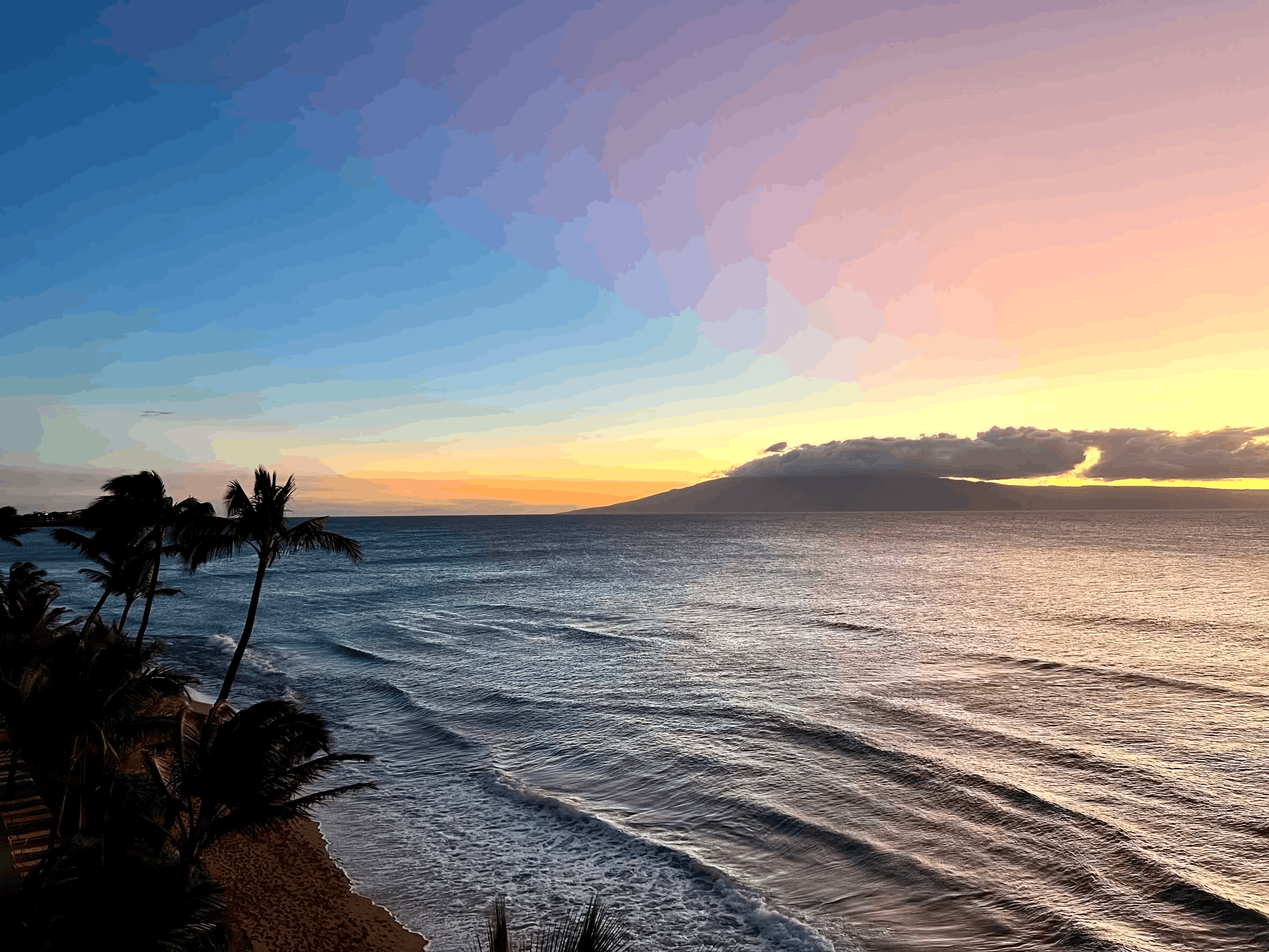
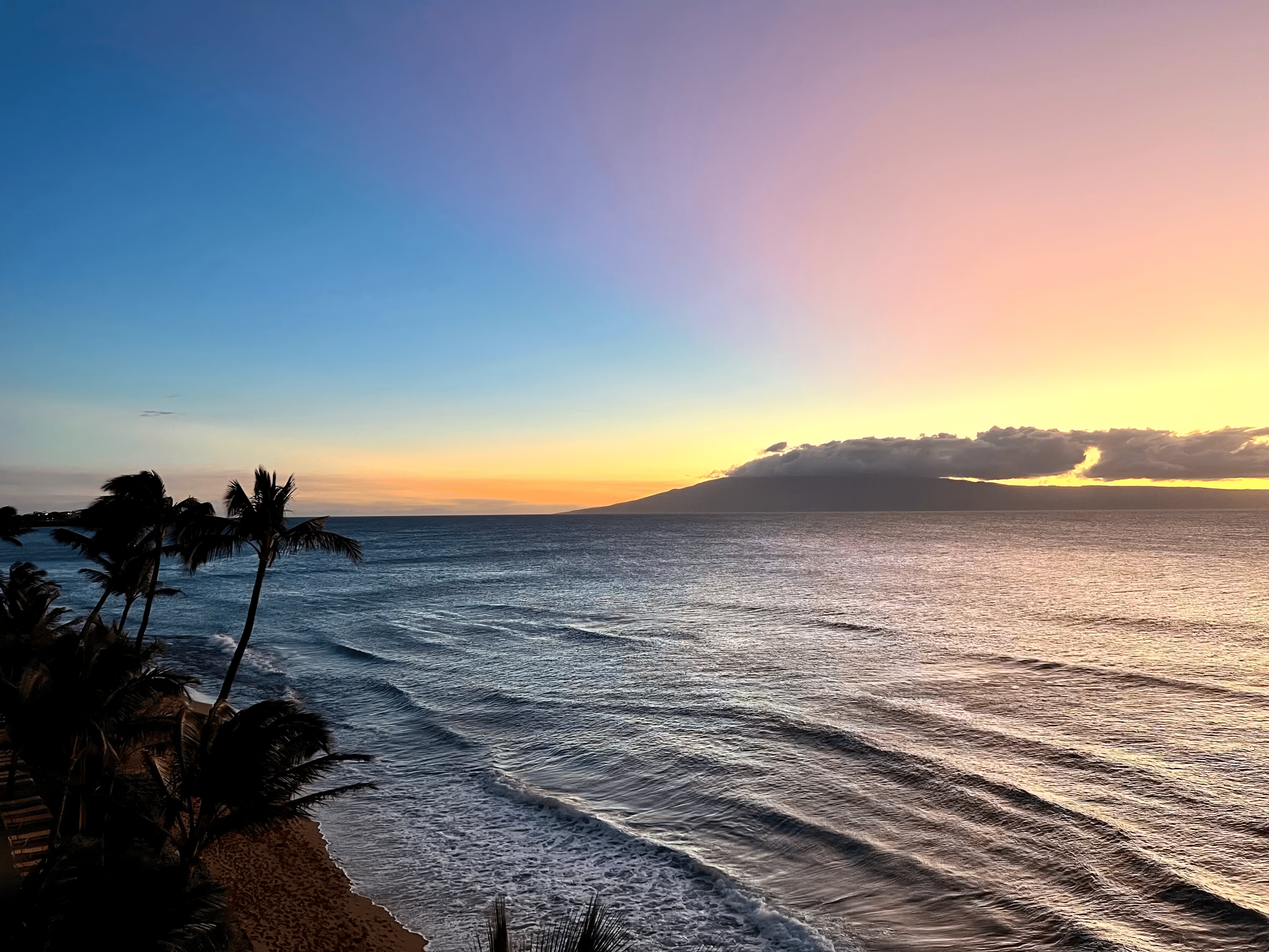
Update hero animation tweens and resolved the hero parallax scrubbing issue

diff --git a/src/App.tsx b/src/App.tsx
@@ -1,4 +1,4 @@
-import { useState, useRef, useEffect } from "react";
+import { useState, useRef, useEffect, useLayoutEffect } from "react";
 import gsap from "gsap";
 import { ScrollTrigger } from "gsap/ScrollTrigger";
 import svgPaths from "@/imports/CoverArt/svg-ftnfa319gk";
@@ -1144,16 +1144,17 @@ export default function App() {
   const [dropdownOpen, setDropdownOpen] = useState(false);
   const [isWhalePlaying, setIsWhalePlaying] = useState(false);
   const [whaleProgress, setWhaleProgress] = useState(0);
-  const [scrollY, setScrollY] = useState(0);
   const [lastUpdated, setLastUpdated] = useState("");
   const [assetsReady, setAssetsReady] = useState(false);
   const [assetProgress, setAssetProgress] = useState(0);
   const whaleVideoRef = useRef<HTMLVideoElement>(null);
   const dropdownRef = useRef<HTMLDivElement>(null);
   const heroRef = useRef<HTMLElement>(null);
+  const scrollRestoreRef = useRef<number | null>(null);
   const location = locations.find((l) => l.id === selectedId)!;
 
   const handleLocationSelect = (id: string) => {
+    scrollRestoreRef.current = window.scrollY;
     setSelectedId(id);
     setDropdownOpen(false);
   };
@@ -1184,14 +1185,13 @@ export default function App() {
     return () => cancelAnimationFrame(raf);
   }, [isWhalePlaying]);
 
-  useEffect(() => {
-    function handleScroll() {
-      setScrollY(window.scrollY);
-    }
-    window.addEventListener("scroll", handleScroll, { passive: true });
-    handleScroll();
-    return () => window.removeEventListener("scroll", handleScroll);
-  }, []);
+  useLayoutEffect(() => {
+    const y = scrollRestoreRef.current;
+    if (y == null) return;
+    scrollRestoreRef.current = null;
+    window.scrollTo(0, y);
+    requestAnimationFrame(() => window.scrollTo(0, y));
+  }, [location.id]);
 
   useEffect(() => {
     const now = new Date();
@@ -1232,6 +1232,33 @@ export default function App() {
         const copy = hero.querySelectorAll("[data-hero-copy] > *");
         gsap.set(img, { opacity: 0, scale: 1.08 });
         gsap.set(copy, { opacity: 0, y: 28 });
+
+        gsap.to(hero.querySelector("[data-hero-parallax]"), {
+          yPercent: 15,
+          ease: "none",
+          scrollTrigger: {
+            trigger: hero,
+            start: "top top",
+            end: "bottom top",
+            scrub: 0.5,
+            onRefresh: (self) => self.animation?.progress(self.progress),
+          },
+        });
+        gsap.fromTo(
+          hero.querySelector("[data-hero-fade]"),
+          { opacity: 0 },
+          {
+            opacity: 1,
+            ease: "none",
+            scrollTrigger: {
+              trigger: hero,
+              start: "top top",
+              end: "80% top",
+              scrub: 0.5,
+              onRefresh: (self) => self.animation?.progress(self.progress),
+            },
+          }
+        );
       }
 
       if (!assetsReady) return;
@@ -1289,7 +1316,7 @@ export default function App() {
       <LoadingOverlay progress={assetProgress / locations.length} show={!assetsReady} />
 
       {/* ── Nav ── */}
-      <header className="sticky top-6 z-50 mx-auto w-[calc(100%-2rem)] max-w-7xl rounded-2xl glass-nav">
+      <header className="fixed top-6 inset-x-0 z-50 mx-auto w-[calc(100%-2rem)] max-w-7xl rounded-2xl glass-nav">
         <div className="px-4 sm:px-6 h-16 flex items-center justify-between gap-3">
           {/* Brand */}
           <div className="flex items-center gap-2 sm:gap-3">
@@ -1357,29 +1384,24 @@ export default function App() {
       </header>
 
       {/* ── Hero ── */}
-      <section ref={heroRef} className="relative -mt-22 h-[80vh] min-h-[340px] overflow-hidden bg-ocean-900" aria-busy={!assetsReady}>
-        <img
-          key={location.id}
-          src={location.heroImage}
-          alt={location.heroAlt}
-          loading="eager"
-          decoding="async"
-          fetchPriority="high"
-          className="absolute inset-0 w-full h-[115%] object-cover"
-          style={{ translate: `0 ${scrollY * 0.15}px` }}
-        />
+      <section ref={heroRef} className="relative h-[80vh] min-h-[340px] overflow-hidden bg-ocean-900" aria-busy={!assetsReady}>
+        <div className="absolute inset-x-0 top-0 h-[115%]" data-hero-parallax>
+          <img
+            key={location.id}
+            src={location.heroImage}
+            alt={location.heroAlt}
+            loading="eager"
+            decoding="async"
+            fetchPriority="high"
+            className="w-full h-full object-cover"
+          />
+        </div>
         <div className="absolute inset-0 bg-gradient-to-b from-ocean-900/30 via-ocean-900/20 to-ocean-900" />
         <div className="absolute inset-0 bg-gradient-to-r from-ocean-900/60 via-transparent to-transparent" />
-        {(() => {
-          const heroHeight = heroRef.current?.offsetHeight || (typeof window !== "undefined" ? window.innerHeight * 0.8 : 600);
-          const progress = Math.min(scrollY / (heroHeight * 0.8), 1);
-          return (
-            <div
-              className="absolute inset-0 bg-ocean-900 pointer-events-none"
-              style={{ opacity: progress }}
-            />
-          );
-        })()}
+        <div
+          className="absolute inset-0 bg-ocean-900 pointer-events-none opacity-0"
+          data-hero-fade
+        />
         <div className="relative h-full flex flex-col justify-end max-w-7xl mx-auto px-6 pb-2">
           <div className="max-w-xl" data-hero-copy>
             <span className="font-mono text-xs text-teal-glow uppercase tracking-widest mb-2 block">

diff --git a/src/index.css b/src/index.css
@@ -28,6 +28,7 @@ html, body, #root {
 
 html, body {
   overflow-x: clip;
+  overflow-anchor: none;
 }
 
 * {
